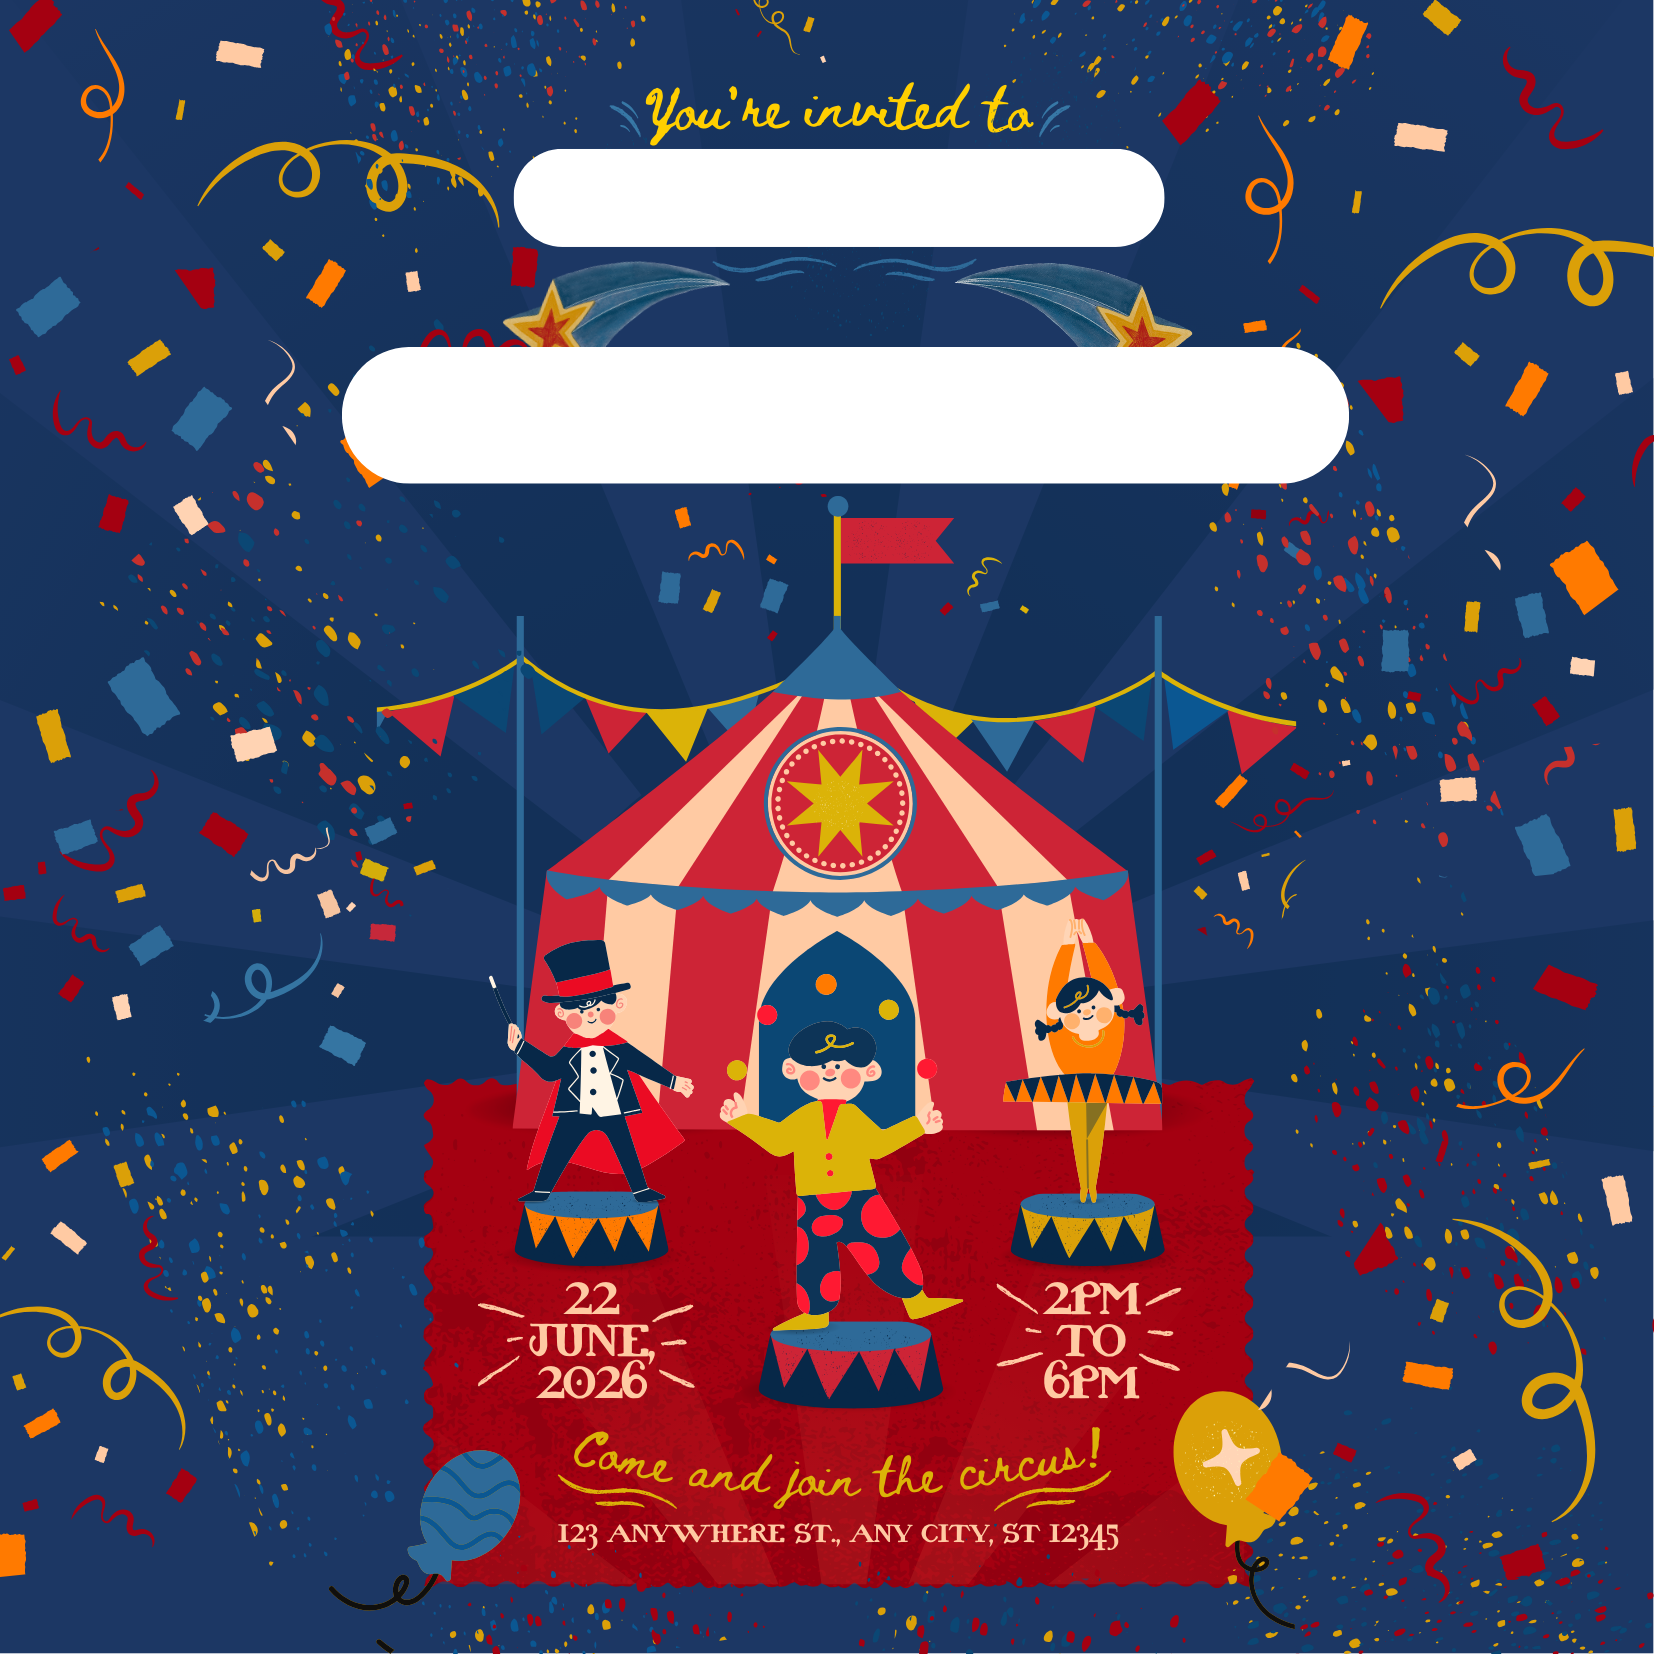
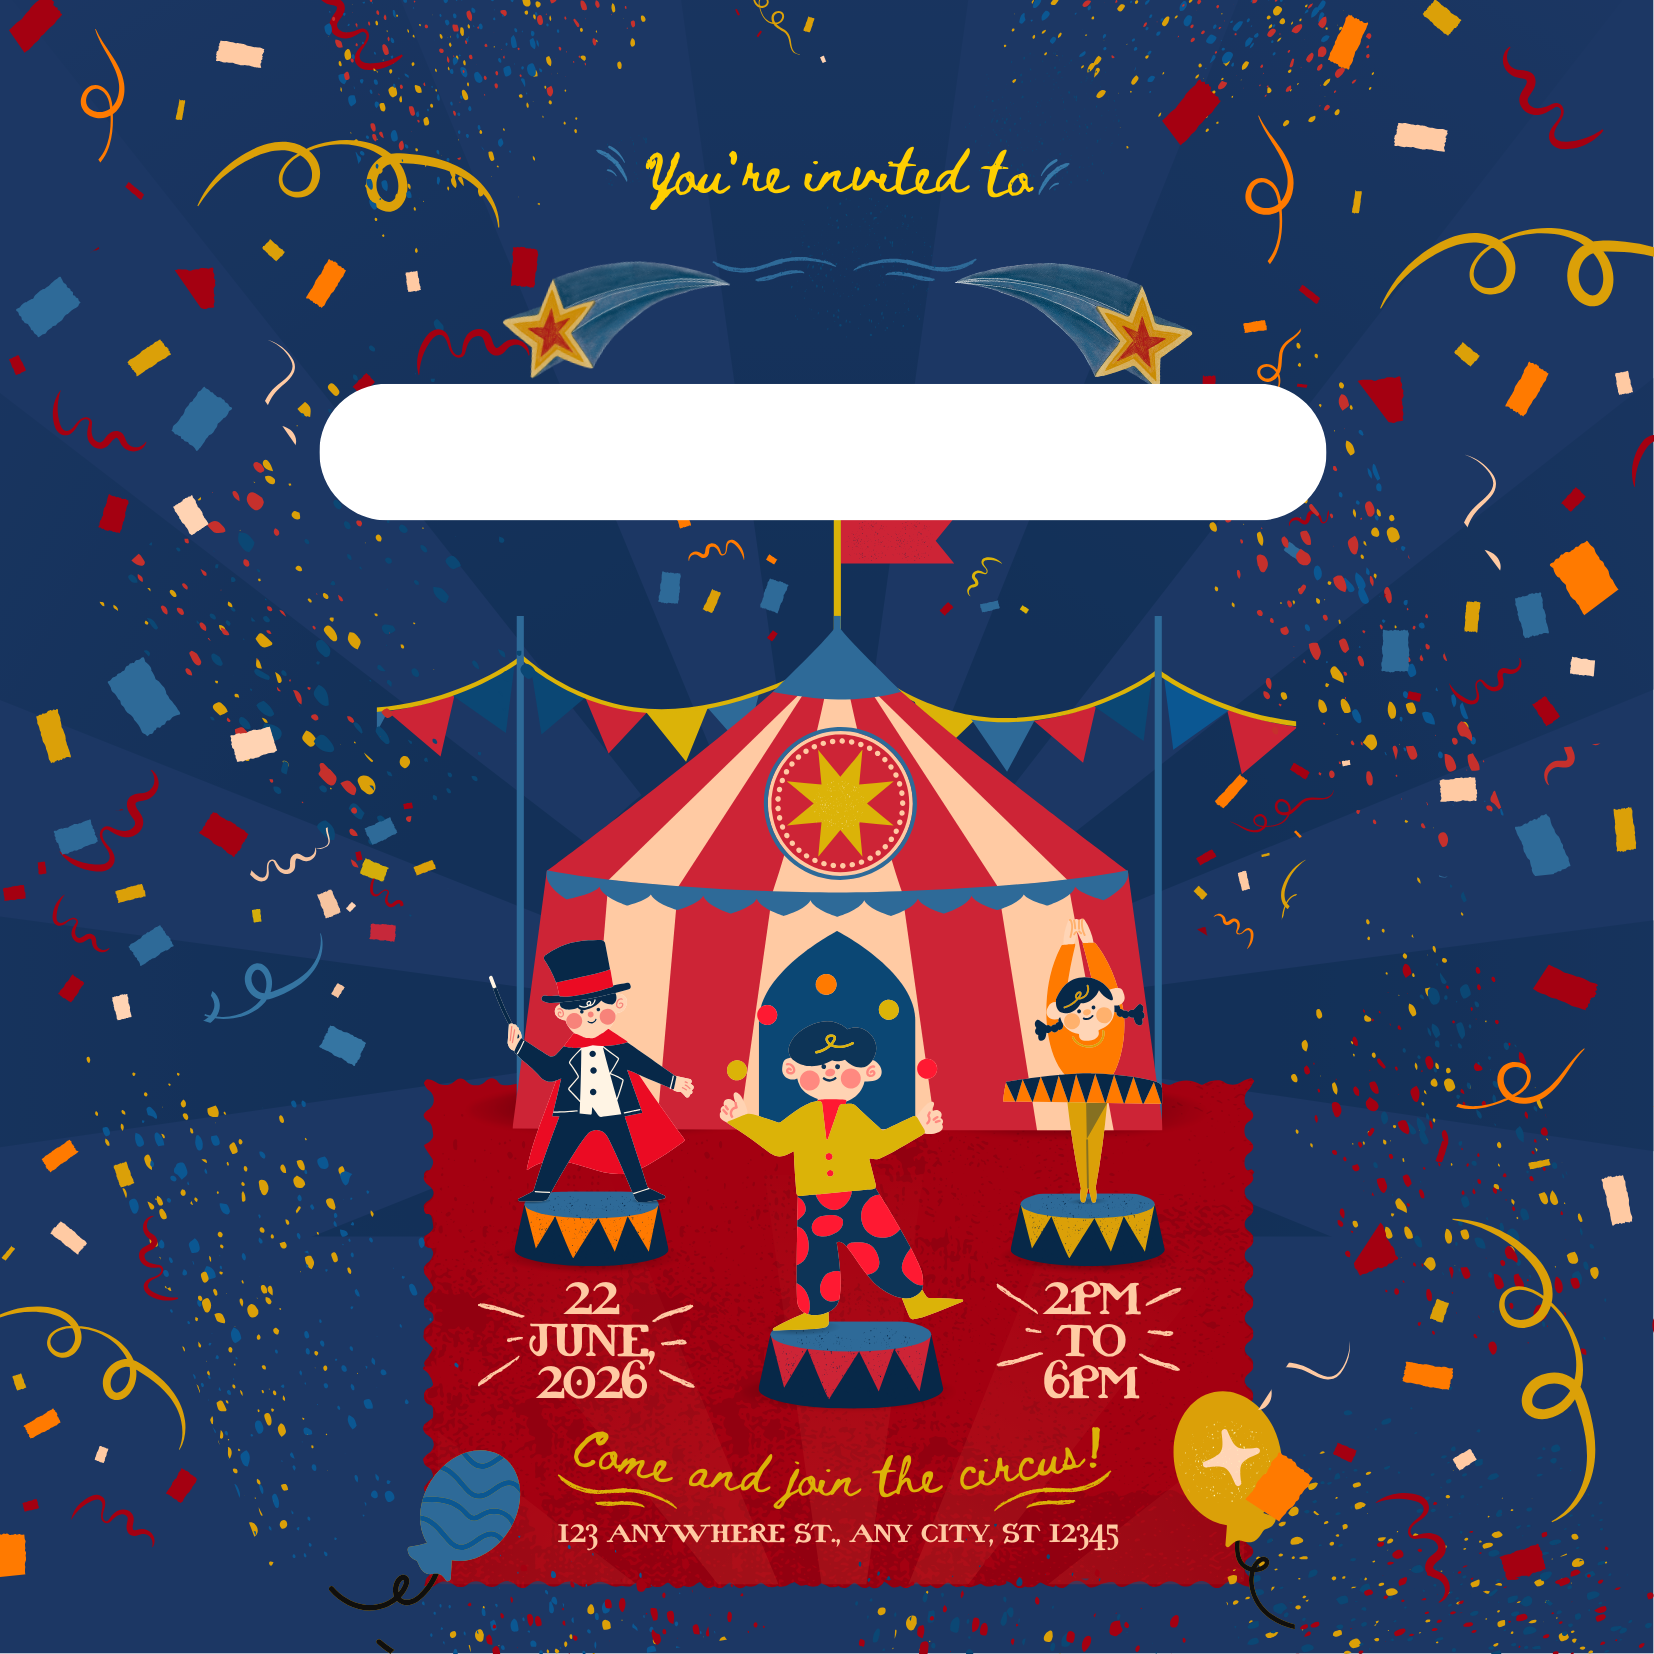
[change] 見た目を整えました

Changed region(s): [[0.2158, 0.185, 0.8325, 0.2775], [0.185, 0.2467, 0.8017, 0.3392], [0.3083, 0.0617, 0.7092, 0.1542]]

diff --git a/app/assets/stylesheets/application.scss b/app/assets/stylesheets/application.scss
@@ -2,7 +2,7 @@
 
 .title {
   position: absolute;
-  top: 25px;
+  top: 70px;
   left: 100px;
   width: 100px;
   text-align: center;

diff --git a/app/helpers/application_helper.rb b/app/helpers/application_helper.rb
@@ -14,7 +14,7 @@ module ApplicationHelper
     when "fairy_tale"
       "Fairy.png"
     else
-      "react.gif"
+      "Car.png"
     end
   end
 end
